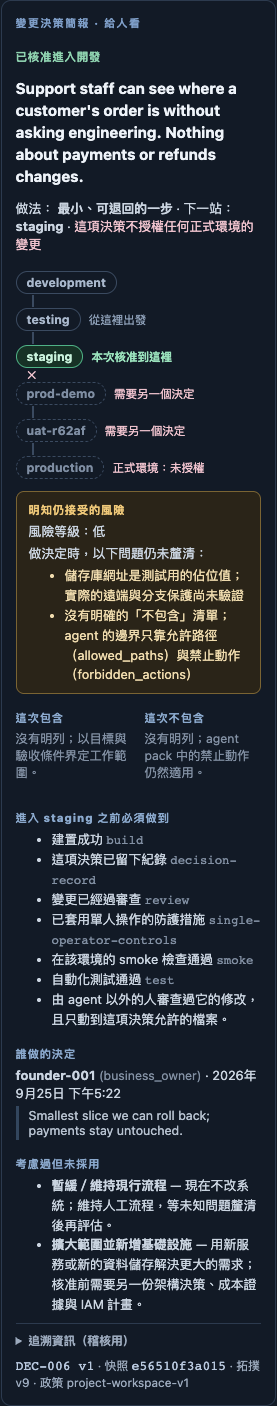
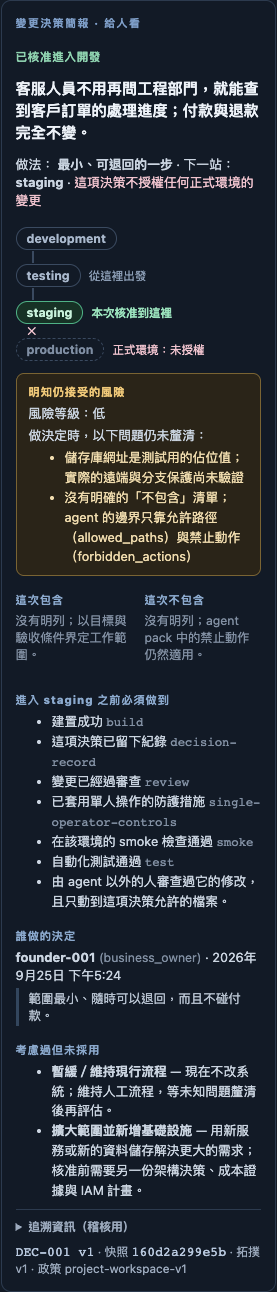
evidence(EB-013): zh-TW Brief screenshot seeded with Chinese owner text
The owner summary and rationale are shown as recorded, so the zh-TW
screenshot is seeded in Chinese on a fresh state dir; the en screenshot
keeps English data.

diff --git a/evidence/EB-013/README.md b/evidence/EB-013/README.md
@@ -32,7 +32,7 @@
 - Readability is shown by structure and screenshots, not by readers. The three-question role test (review item 6, G5) is still open and is the real acceptance for "human-readable".
 - Receipt conclusion-first layout and a reviewer Technical Report (review items 4–5) are not in this slice.
 - Other server-generated text — missing-input reasons, observations, gate details — is still English in zh-TW; only rule-advisor options and unknowns are coded.
-- The screenshots' owner summary and rationale are English because the seeded demo data was written in English; they are shown as recorded. `uat-…` in the path is an environment an earlier browser journey adds.
+- Screenshot data: `brief-zh-TW.png` is seeded in Chinese on a fresh state dir (the fixture's own path); `brief-en.png` is seeded in English after the full browser run, so its path includes a `uat-…` environment an earlier journey adds. Owner summary and rationale are shown as recorded in both.
 - Evidence-code labels cover the nine codes current topologies use; others render as the code.
 - The EB-012 CHG-001 decision predates `owner_summary` and shows the missing-summary notice.
 - Brief JSON changed from v1 (`headline`, `sections`) to v2; no other consumer in the repo reads v1.
